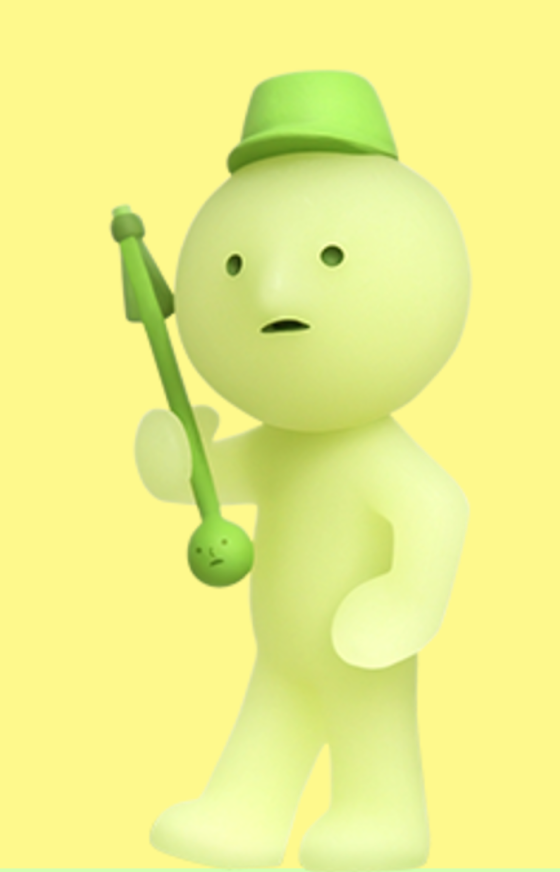
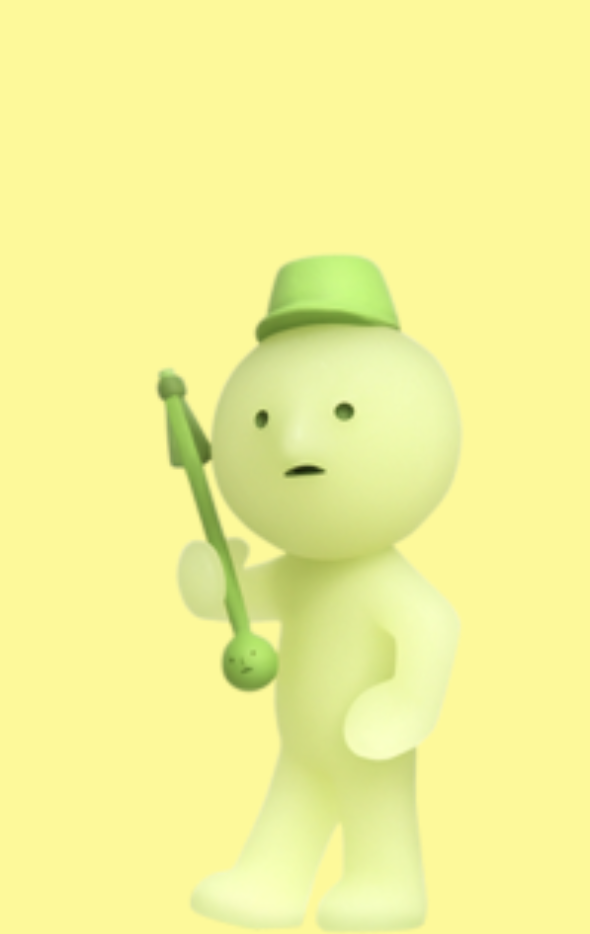
added pw confirmation, extra smiski img

Changed region(s): [[0.0, 0.0619, 1.0, 1.0], [0.5464, 0.836, 0.6071, 0.8979]]

diff --git a/frontend/components/Login.tsx b/frontend/components/Login.tsx
@@ -1,7 +1,7 @@
 import React from 'react';
 import { useState } from 'react';
 import image1 from './image1.png';
-// import image2 from './image2.png';
+import image2 from './image2.png';
 import { AiFillEye, AiFillEyeInvisible } from "react-icons/ai";
 import { useSignIn, useSignUp } from '@clerk/clerk-react';
 //import { useNavigate } from "react-router-dom";
@@ -12,6 +12,7 @@ const Login: React.FC = () => {
     const [userName, setUserName] = useState("");
     const [userEmail, setUserEmail] = useState("");
     const [userPassword, setUserPassword] = useState("");
+    const [userConfirmPassword, setUserConfirmPassword] = useState("");
 
     const { signIn } = useSignIn();
     const { isLoaded, signUp } = useSignUp();
@@ -49,38 +50,46 @@ const Login: React.FC = () => {
                         <p className="text-gray-800 text-l p-4 text-center"> The premier Smiski trading platform. </p>
                     </div>
                 </div>
-
+                
                 <div className="bg-yellow-350 flex justify-center items-center relative h-full w-2/3 shadow-2xl">
                     
                     <div className="absolute top-4 right-32"> 
                         <p className = "text-s"> Already have an account? </p>
                     </div>
-                    <div className="absolute top-4 right-4 "> 
+
+                    <div className="absolute top-4 right-2"> 
                         <button className="flex justify-center items-center text-s hover:scale-110 h-6 w-24 px-4 py-1 bg-green-350 text-black rounded-lg transition duration-300 ease-in-out hover:bg-green-450 outline outline-green-450 outline-3" onClick={goToLogin}>
                         Sign in
                         </button>
                     </div>
-                    {/* <div className = "absolute bottom-1 right-2">
-                        <img src = { image2 } alt = "img" className = "h-1/5 w-1/5 pl-4"></img>
-                    </div> */}
+
+                    <div className = "absolute bottom-0 right-4">
+                        <img src = { image2 } alt = "img" className = "h-96 w-64"></img>
+                    </div>
+
+
 
                     <div className="flex flex-col h-3/5 pr-40">
                         <h1 className="text-4xl font-bold"> Welcome to </h1>
                         <h1 className="text-4xl font-bold"> Angel Trading Co.! </h1>
                         <h3 className = "text-lg font-bold pt-6"> Please register your account. </h3>
 
-                        <div className = "flex flex-col justify-between h-2/5 pt-12">
+                        <div className = "flex flex-col justify-between h-2/5 pt-8">
                             <form onSubmit = {onSubmit}>
+
+                                {/* username input field */}
                                 <p className = ""> Username </p>
                                 <label>
                                     <input name = "Username" type = "username" value = {userName} onChange = {(e: React.ChangeEvent<HTMLInputElement>) => setUserName(e.target.value)} className = "bg-gray-200 w-96 rounded-lg"/>
                                 </label>
 
+                                {/* email input field */}
                                 <p className = "pt-4"> Email Address </p>
                                 <label>
                                     <input name = "Email" type = "email" value = {userEmail} onChange = {(e: React.ChangeEvent<HTMLInputElement>) => setUserEmail(e.target.value)} className = "bg-gray-200 w-96 rounded-lg"/>
                                 </label>
 
+                                {/* password input field */}
                                 <p className = "pt-4"> Password </p>
                                 <label className="relative block">
                                     <input name="Password" type={(visibility === false) ? "password" : "text"} value = {userPassword} onChange = {(e: React.ChangeEvent<HTMLInputElement>) => setUserPassword(e.target.value)} className="bg-gray-200 w-96 rounded-lg"/>
@@ -94,9 +103,10 @@ const Login: React.FC = () => {
                                     </div>
                                 </label>
 
+                                {/* confirm password input field - does NOT get passed to Clerk signUp */}
                                 <p className = "pt-4"> Confirm Password </p>
                                 <label className="relative block">
-                                    <input name="ConfirmPassword" type={(visibility === false) ? "password" : "text"}  className="bg-gray-200 w-96 rounded-lg"/>
+                                    <input name="ConfirmPassword" type={(visibility === false) ? "password" : "text"} value = {userConfirmPassword} onChange = {(e: React.ChangeEvent<HTMLInputElement>) => setUserConfirmPassword(e.target.value)}className="bg-gray-200 w-96 rounded-lg"/>
                                     <div onClick={() => setVisibility(!visibility)} className="text-2xl text-gray-700 absolute inset-y-0 right-0 flex items-center pr-3">
                                         {
                                             visibility ?
@@ -107,14 +117,19 @@ const Login: React.FC = () => {
                                     </div>
                                 </label>
 
-                                <p className = "pt-1 text-xs">
-                                    Passwords do not match.
+                                {/* if password field is non-empty, check if passwords match or not */}
+                                <p className = "pt-1 text-xs">  
                                     {
-                                        
-                                    }
+                                        userPassword !== "" ? 
+                                        (userPassword === userConfirmPassword ) ?
+                                        <p className = "text-green-600"> Passwords match! </p>  : <p className = "text-red-500"> ERROR: Passwords do not match. </p> 
+                                        :
+                                        <p className = "text-yellow-350"> btn gap placeholder </p>
+                                    }   
                                 </p>
-                            
-                                <div className="flex justify-center mt-6">
+                                
+                                {/* register button */}
+                                <div className="flex justify-center mt-4">
                                     <input type = "submit" value = "submit" className="hover:scale-110 w-32 bg-green-350 text-black py-2 px-4 rounded-lg transition duration-300 ease-in-out hover:bg-green-450 outline outline-green-450 outline-3" /> 
                                 </div>
                             </form>
